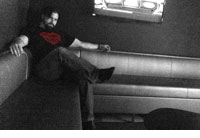
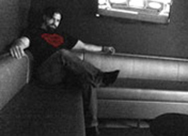
Fix grid on home page to line up

diff --git a/app/assets/stylesheets/placegant.css.scss b/app/assets/stylesheets/placegant.css.scss
@@ -61,16 +61,18 @@ header h1 {
   color: #999;
   font: normal normal 5em Baskerville, Palatino, "Book Antiqua", serif;
 }
+
 #unit-gant-content {
   width: 400px;
   padding-right: 8px;
   height: 582px;
   float: left;
   position: relative;
+
 }
 #image-0 {
   position: absolute;
-  bottom: 0;
+  bottom: -9px;
 }
 #unit-gant-content p:nth-child(3) {
   padding: 8px 16px;
@@ -94,26 +96,18 @@ header h1 {
 #unit-many-many-gants {
   width: 408px;
   float: right;
-  margin-left: 8px;
-  margin-bottom: 8px;
 }
 #image-1,#image-2,#image-3 {
   float: left;
 }
-#image-1 {
-  margin-right: 8px;
-}
-#unit-many-many-gants img {
-  margin-bottom: 8px;
-}
 #image-4,#image-5,#image-6,#image-7 {
   float: right;
 }
-#image-4 {
-  margin-left: 8px;
+#image-1,#image-2,#image-3,#image-4,#image-5,#image-6,#image-7 {
+  margin: 8px;
 }
-#image-5 {
-  margin-left: 8px;
+#image-1,#image-2 {
+  margin-top: 0;
 }
 .footer {
   font-size: 85.714%; /* 12px */
